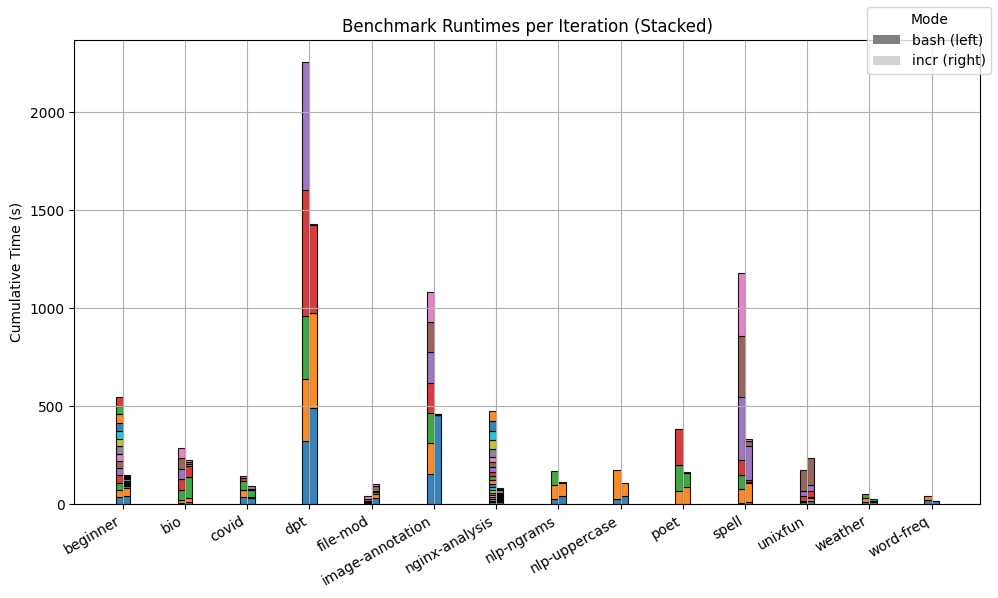
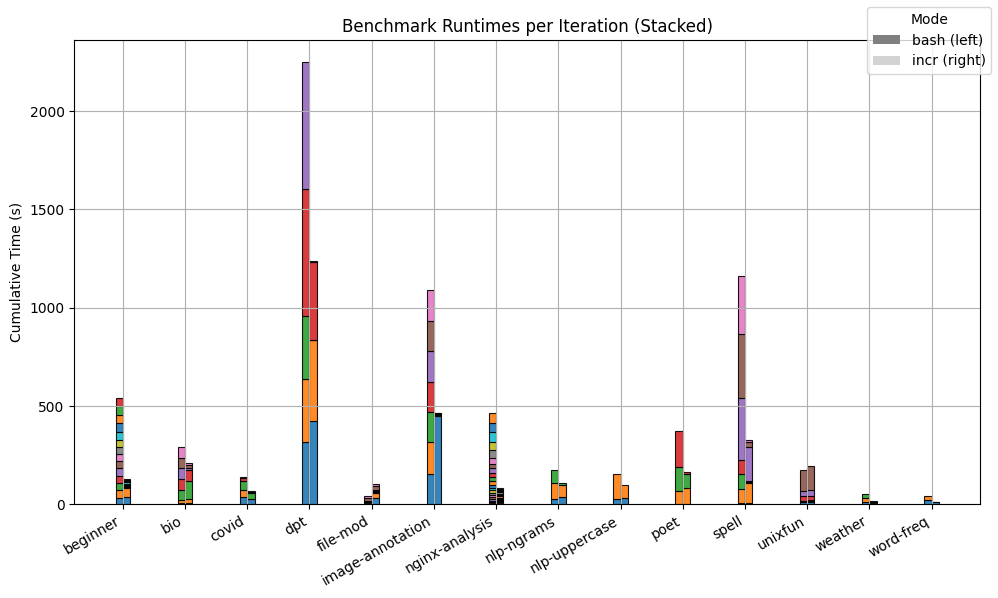
plot

diff --git a/evaluation/analysis/plot.py b/evaluation/analysis/plot.py
@@ -28,7 +28,7 @@ width = 0.35  # Bar width
 all_colors = matplotlib.colormaps.get_cmap("tab10")
 
 for i, benchmark in enumerate(BENCHMARKS):
-    data = pd.read_csv(f"../batch_results/batch_1/{benchmark}-time.csv")
+    data = pd.read_csv(f"../introspect_results/introspect_1/{benchmark}-time.csv")
 
     # Get per-iteration times
     bash_times = data[data["mode"] == "bash"]["time_sec"].values
@@ -81,7 +81,7 @@ axes.set_title("Benchmark Runtimes per Iteration (Stacked)")
 # Iteration colors
 # get the max number of iterations across all benchmarks
 num_iters = max(
-    pd.read_csv(f"../batch_results/batch_1/{benchmark}-time.csv")["mode"].value_counts().max()
+    pd.read_csv(f"../introspect_results/introspect_1/{benchmark}-time.csv")["mode"].value_counts().max()
     for benchmark in BENCHMARKS
 )
 iter_patches = [
